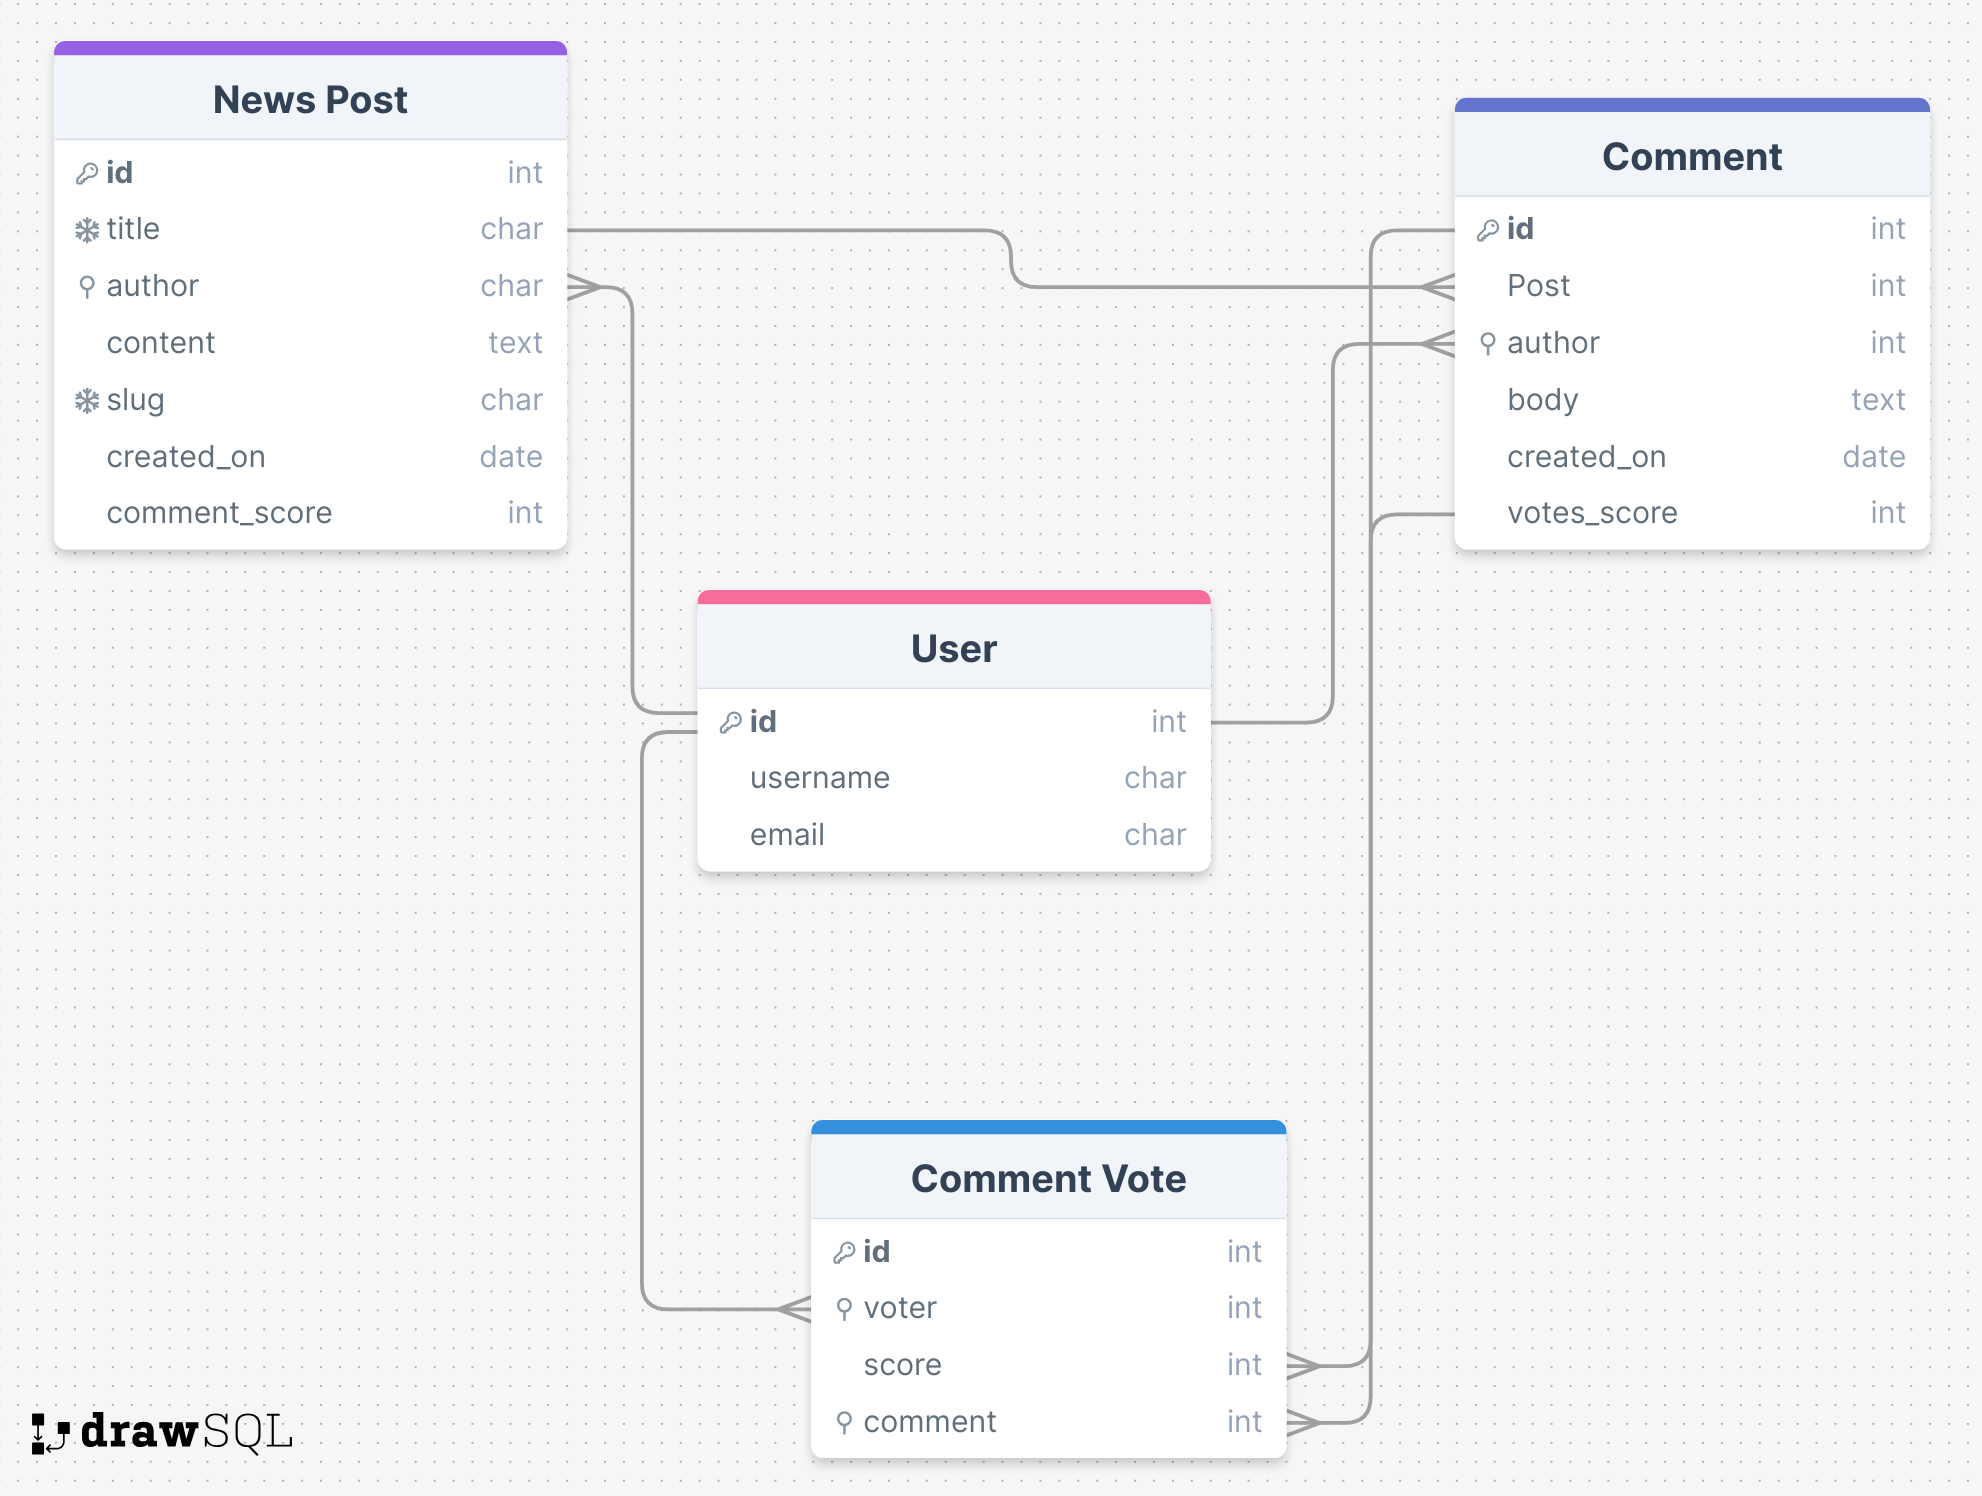
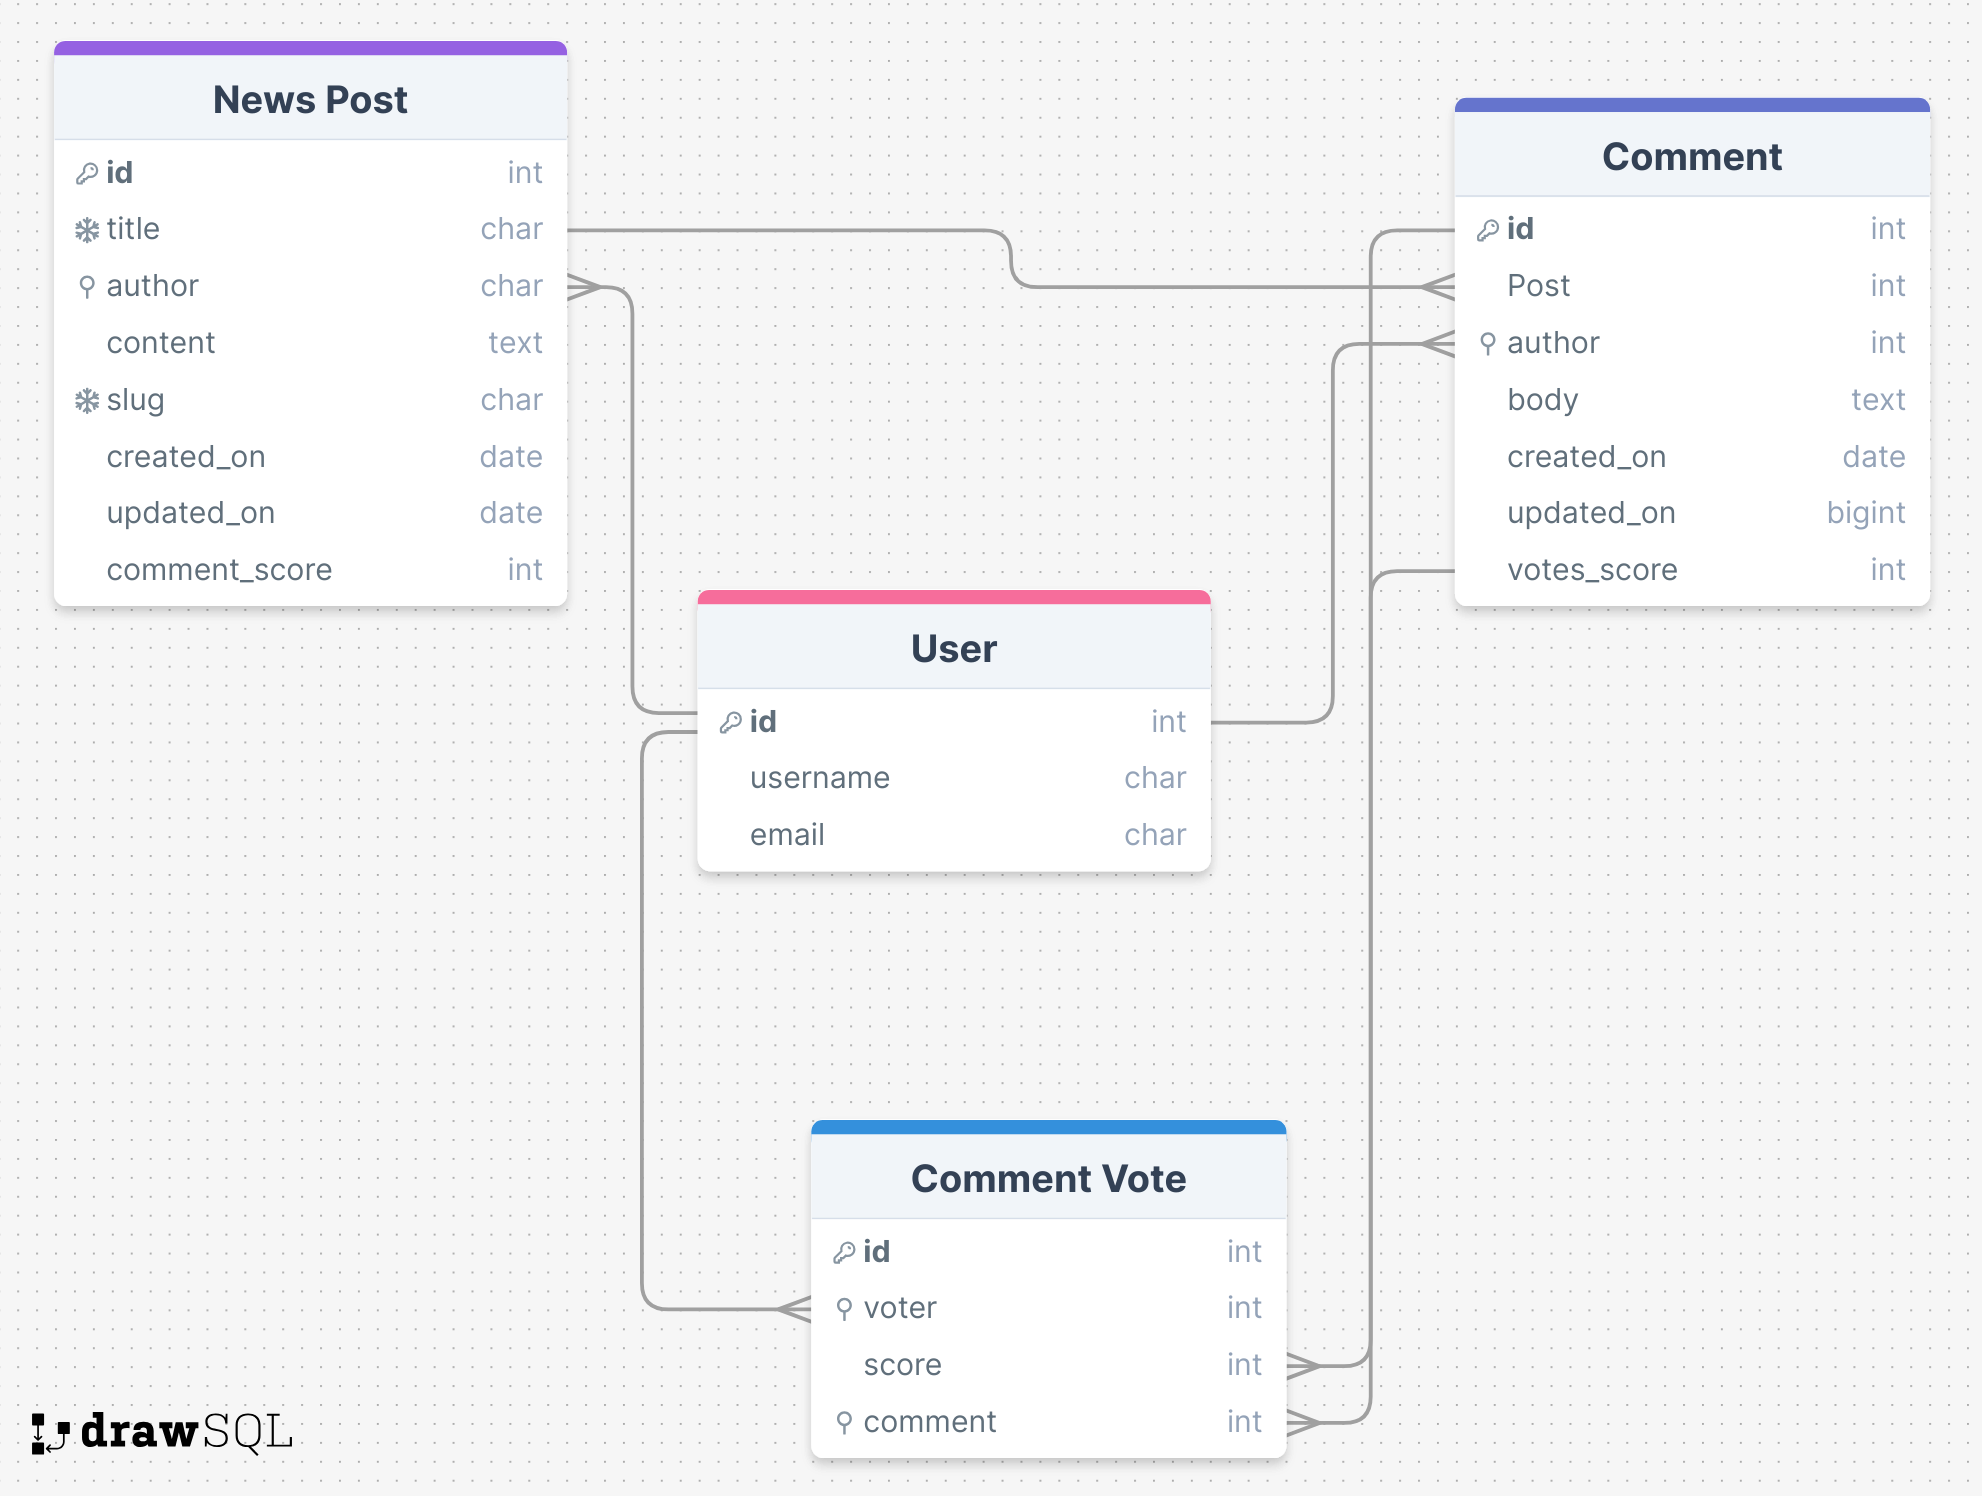
docs: update readme to include upodated_on field in model planning

Changed region(s): [[0.0308, 0.3382, 0.277, 0.4305], [0.7386, 0.3382, 0.9849, 0.4305]]

diff --git a/README.md b/README.md
@@ -123,6 +123,8 @@ The flow diagram was created using [DrawSQL](https://drawsql.app/)
 
 - Created on: Date and time set automatically when the question is created.
 
+- Updated on: Date and time set automatically whenever the question is updated
+
 - Comment Score: Sum of amount of comments on the post. To be used for ability to filter homepage to "most active"
 
 #### Comment Model
@@ -134,6 +136,8 @@ The flow diagram was created using [DrawSQL](https://drawsql.app/)
 - Body: Content of the comment supplied by the user
 
 - Created on: Date and time set automatically when the comment is created.
+
+- Updated on: Date and time set automatically whenever the question is updated
 
 - Votes Score: Calculated score of the sum of the comments Up / Downvotes.
 
